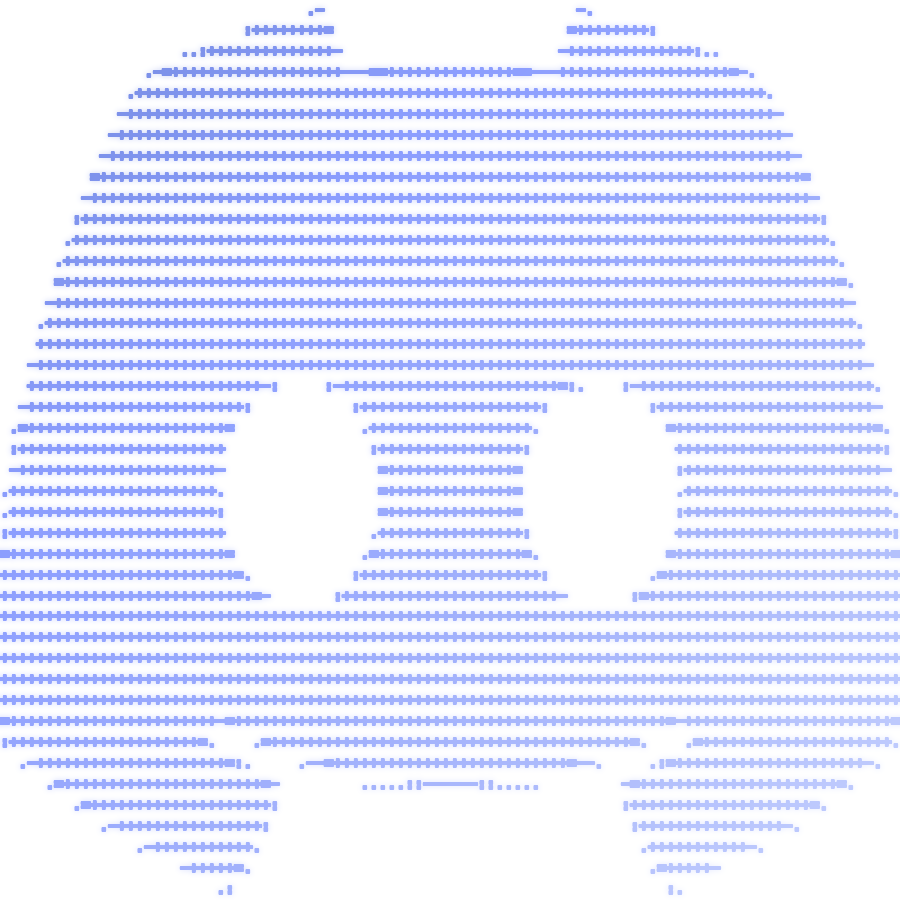
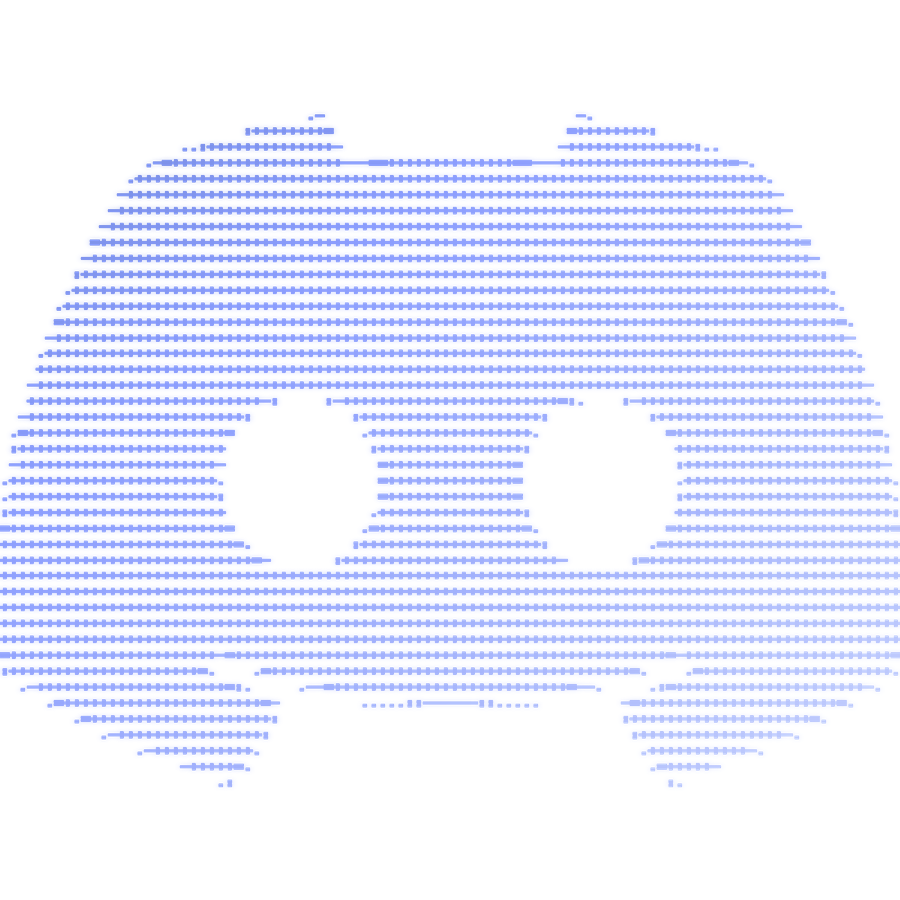
image res fixed

diff --git a/_pages/contact-us.md b/_pages/contact-us.md
@@ -20,7 +20,7 @@ permalink: /contact-us/
     </a>
 
     <a href="https://discord.com/invite/WP9faZEeRz" class="contact-card contact-card--discord" target="_blank" rel="noopener noreferrer" aria-label="Discord" title="Discord: NTU Sentinels">
-      <img src="{{ '/assets/images/contact/discord.png?v=2' | relative_url }}" alt="Discord ASCII Logo" class="contact-ascii-img" width="180" height="180" loading="eager" decoding="async">
+      <img src="{{ '/assets/images/contact/discord.png?v=3' | relative_url }}" alt="Discord ASCII Logo" class="contact-ascii-img" width="180" height="180" loading="eager" decoding="async">
     </a>
   </div>
 </section>
